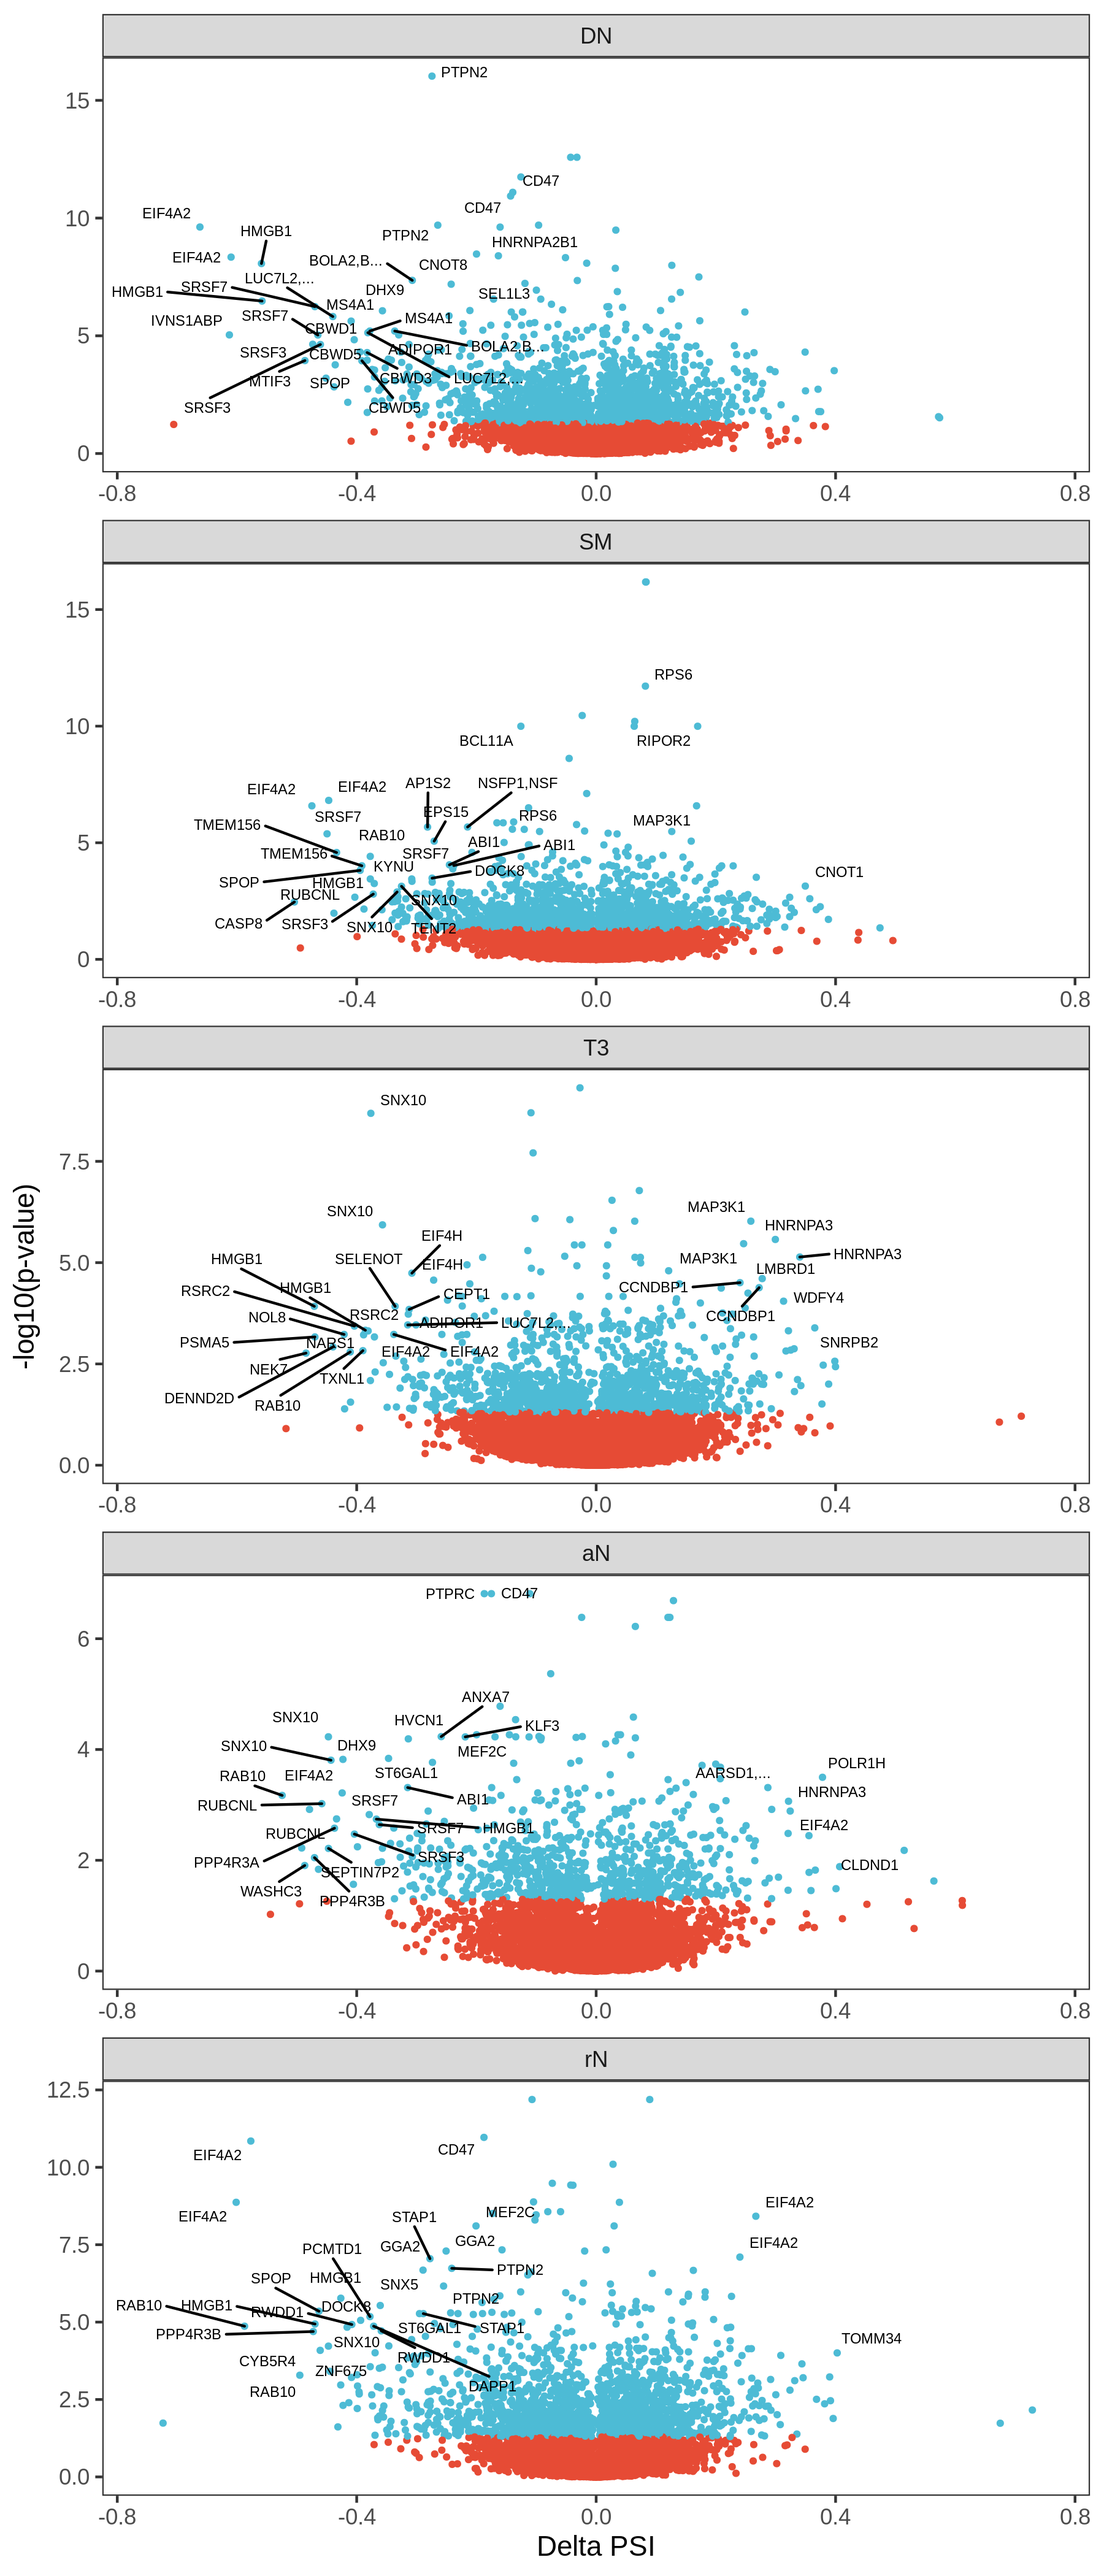
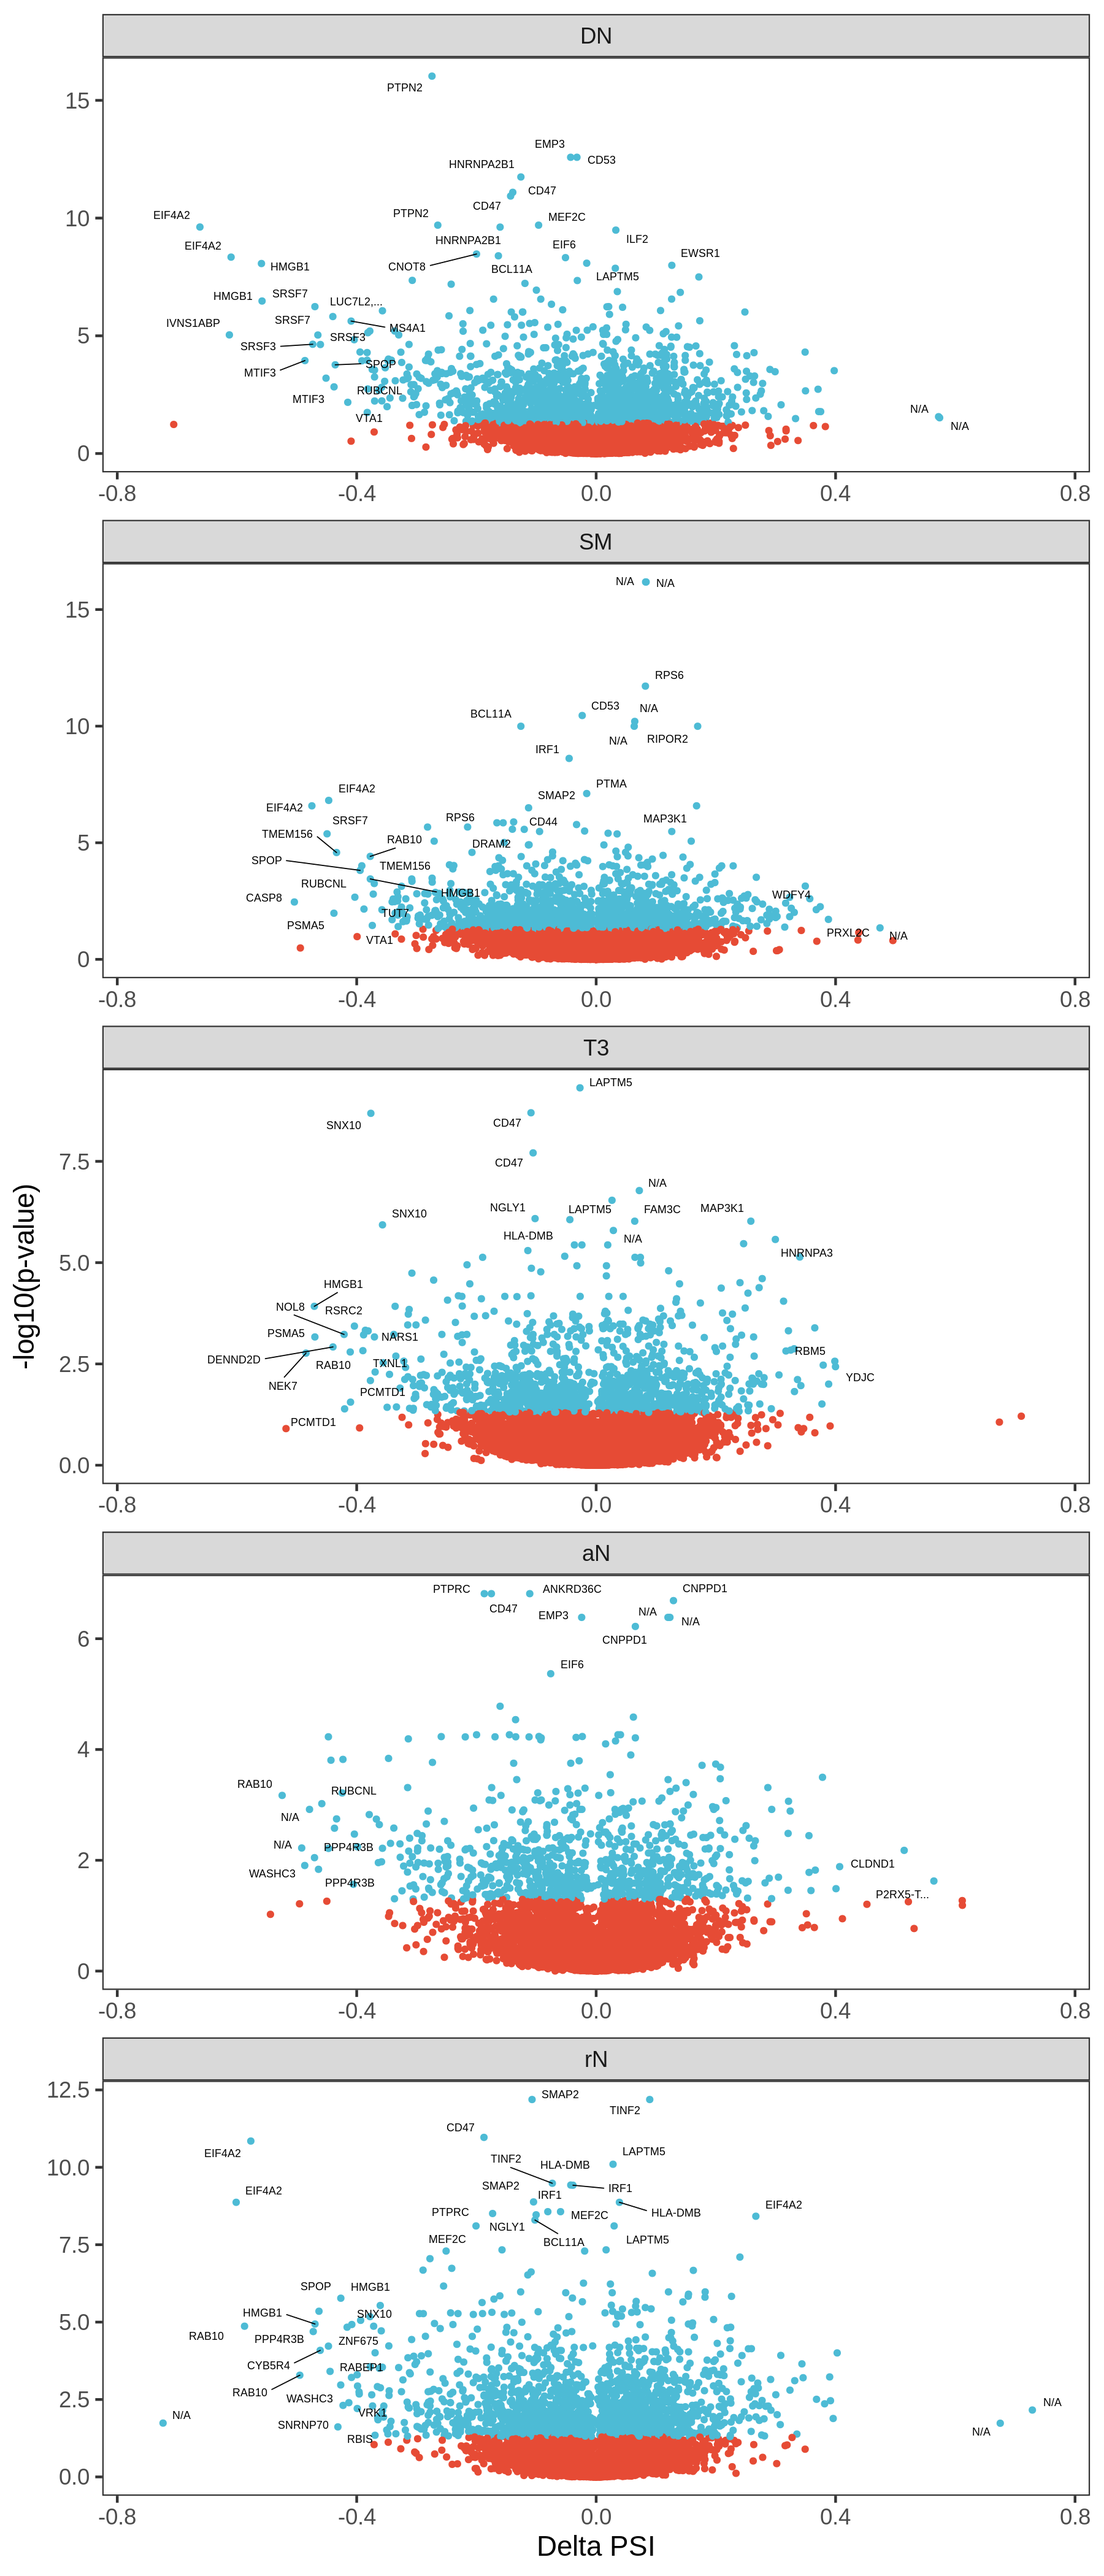
use gene-level results for DTU

diff --git a/splicing/README.md b/splicing/README.md
@@ -42,10 +42,10 @@ leaf_df <- map_df(cell_types, read_leaf, .id = "cell_type") %>%
     ungroup()
 
 dtu <- 
-    file.path("./results", cell_types, "dtu_perTx.tsv") %>%
+    file.path("./results", cell_types, "dtu_perGene.tsv") %>%
     setNames(cell_types) %>%
     map_df(~read_tsv(.) %>%
-               select(gene_name, tx_id = feature_id, adj_pvalue),
+               select(gene_name, adj_pvalue),
            .id = "cell_type")
 ```
 
